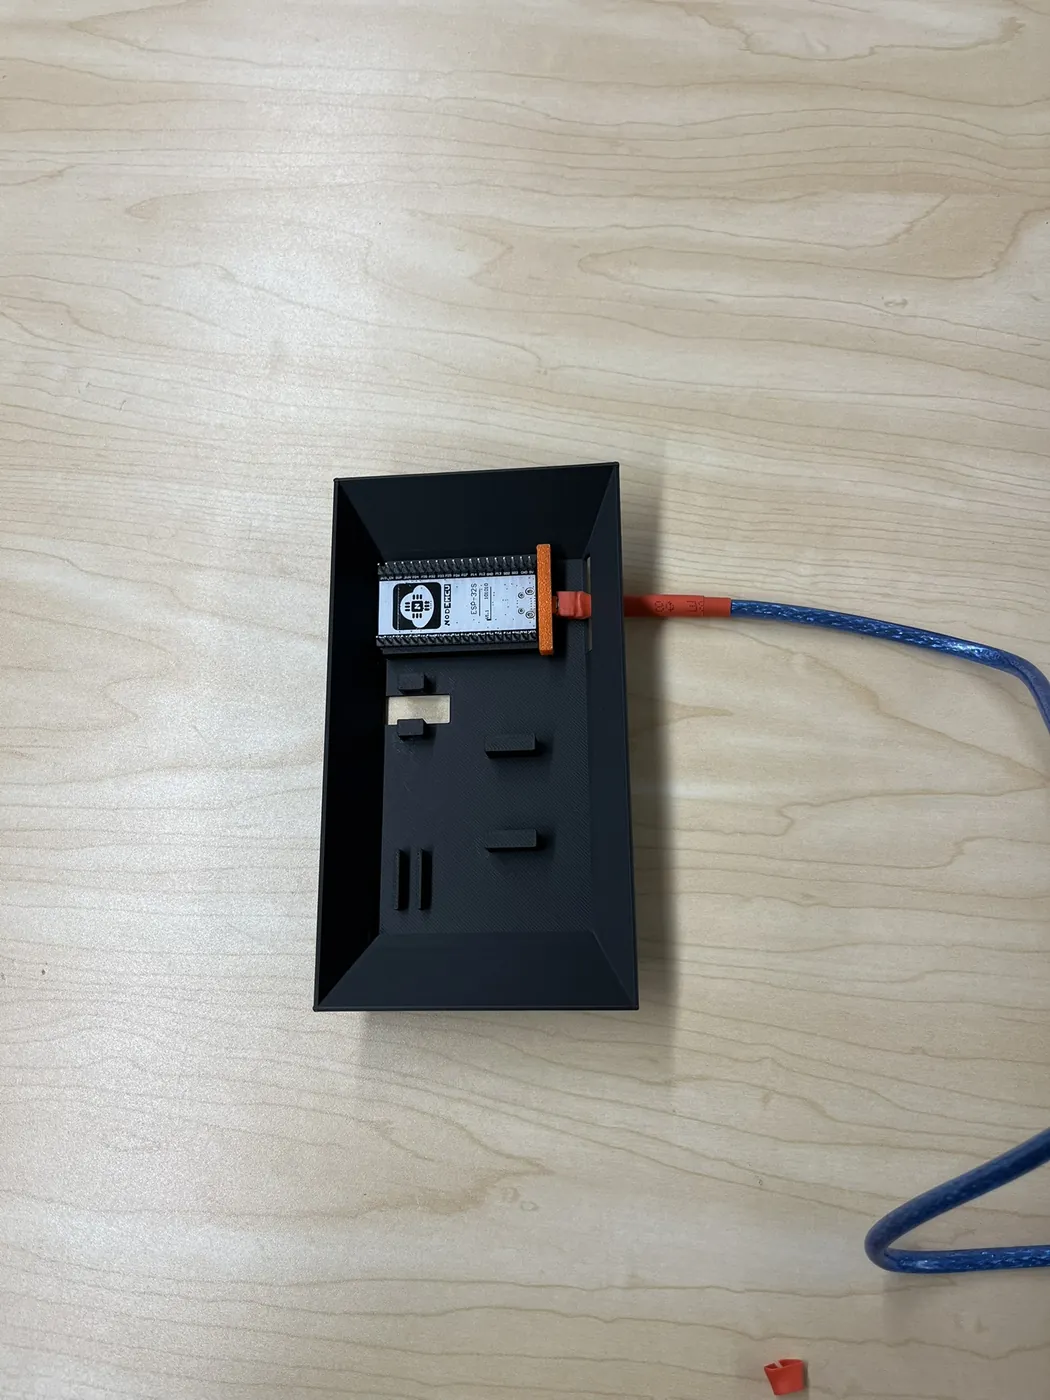
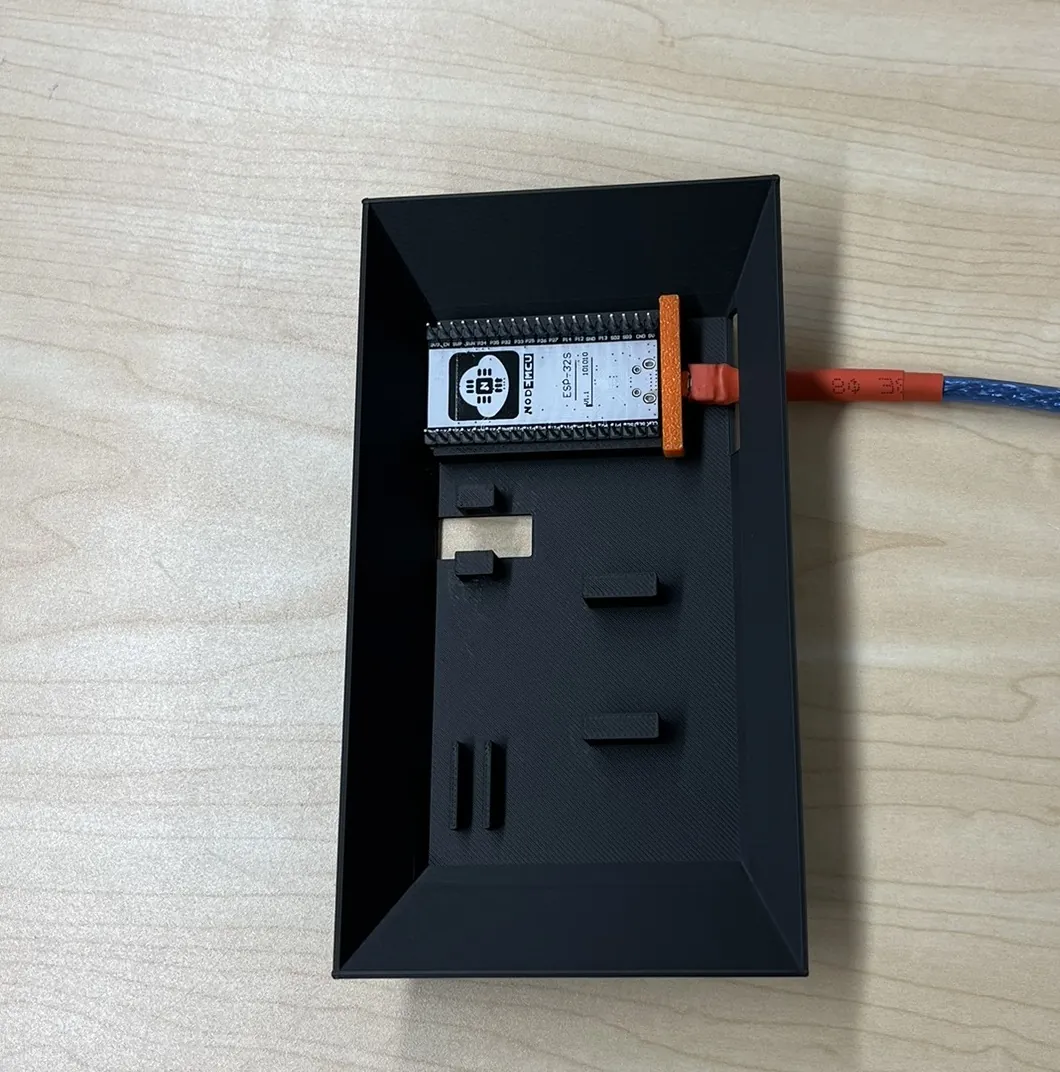
changed images

diff --git a/public/index.html b/public/index.html
@@ -155,25 +155,22 @@
   </article>
   <article class="project-row" id="nfc-locker">
     <div class="project-gallery project-gallery-photos" role="region" aria-roledescription="carousel" aria-label="NFC Smart Locker gallery" data-gallery>
-  <div class="gallery-slides"><figure class="gallery-slide" role="group" aria-roledescription="slide" aria-label="1 of 6">
+  <div class="gallery-slides"><figure class="gallery-slide" role="group" aria-roledescription="slide" aria-label="1 of 5">
     <img src="/images/projects/locker-prototype.webp" alt="The finished NFC locker prototype mounted on a cardboard locker door" width="939" height="873" loading="lazy" decoding="async">
   </figure>
-<figure class="gallery-slide" hidden role="group" aria-roledescription="slide" aria-label="2 of 6">
+<figure class="gallery-slide" hidden role="group" aria-roledescription="slide" aria-label="2 of 5">
     <img src="/images/projects/locker-servo.webp" alt="Micro servo and 3D printed latch inside the orange enclosure" width="1400" height="1050" loading="lazy" decoding="async">
   </figure>
-<figure class="gallery-slide" hidden role="group" aria-roledescription="slide" aria-label="3 of 6">
-    <img src="/images/projects/locker-enclosure.webp" alt="Black 3D printed enclosure holding the microcontroller with its custom USB cable" width="1050" height="1400" loading="lazy" decoding="async">
+<figure class="gallery-slide" hidden role="group" aria-roledescription="slide" aria-label="3 of 5">
+    <img src="/images/projects/locker-enclosure.webp?v=2" alt="Black 3D printed enclosure holding the microcontroller with its custom USB cable" width="1060" height="1072" loading="lazy" decoding="async">
   </figure>
-<figure class="gallery-slide" hidden role="group" aria-roledescription="slide" aria-label="4 of 6">
+<figure class="gallery-slide" hidden role="group" aria-roledescription="slide" aria-label="4 of 5">
     <img src="/images/projects/locker-cad.webp" alt="SolidWorks assembly of the locker enclosure with the servo and latch" width="1400" height="1280" loading="lazy" decoding="async">
   </figure>
-<figure class="gallery-slide" hidden role="group" aria-roledescription="slide" aria-label="5 of 6">
-    <video width="720" height="1280" muted autoplay loop playsinline disablepictureinpicture preload="none" poster="/images/projects/locker-demo-video.webp" aria-label="Silent video of the latch moving in the SolidWorks motion study" data-silent><source src="/videos/locker-demo.mp4" type="video/mp4"></video>
-  </figure>
-<figure class="gallery-slide" hidden role="group" aria-roledescription="slide" aria-label="6 of 6">
+<figure class="gallery-slide" hidden role="group" aria-roledescription="slide" aria-label="5 of 5">
     <video width="1080" height="1080" muted autoplay loop playsinline disablepictureinpicture preload="none" poster="/images/projects/locker-assembly-video.webp" aria-label="Silent video of the locking assembly motion study" data-silent><source src="/videos/locker-assembly.mp4" type="video/mp4"></video>
   </figure></div>
-  <div class="gallery-controls" hidden><button type="button" data-prev aria-label="Previous slide">←</button><span class="gallery-count" aria-live="off">1 / 6</span><button type="button" data-next aria-label="Next slide">→</button><button type="button" class="gallery-toggle" data-toggle>Pause slideshow</button></div>
+  <div class="gallery-controls" hidden><button type="button" data-prev aria-label="Previous slide">←</button><span class="gallery-count" aria-live="off">1 / 5</span><button type="button" data-next aria-label="Next slide">→</button><button type="button" class="gallery-toggle" data-toggle>Pause slideshow</button></div>
 </div>
     <div class="project-copy"><span class="card-index">04 / EMBEDDED SYSTEMS</span><h2>NFC Smart Locker</h2><p class="project-subtitle">Prototype · 103 project</p><p>This project allowed a user to either use a traditional lock or use a smartphone to lock a locker. The locker had an NFC coaster which sends the user to a web app (Flask) with a button to lock the locker. Once the user returned to the locker, they would scan the coaster and could unlock the locker. The web app uses a cookie on the users device to make sure other devices can't unlock the locker. I also fabricated a custom micro usb cable using a Dremel, solder and heat shrink because the provided cable was too large for the enclosure.</p><p>As a product, this system would be integrated into current locker systems and allow for gyms to create less waste cutting locks after closing, as there would be software for a manager to remotely open lockers. This project placed first at the ECEi Sharktank pitch competition.</p><p class="project-stack">Flask · NFC · SolidWorks</p></div>
   </article>
